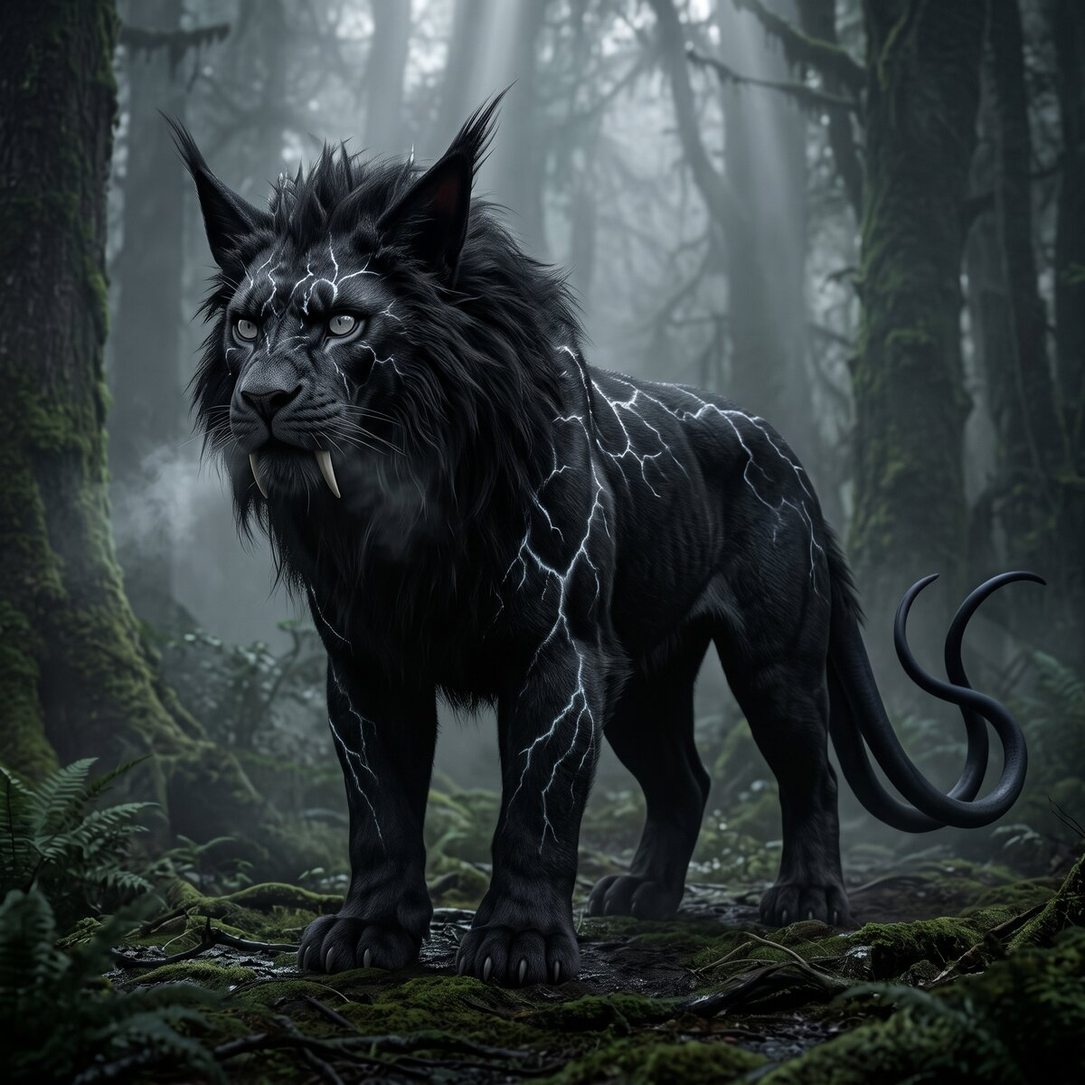
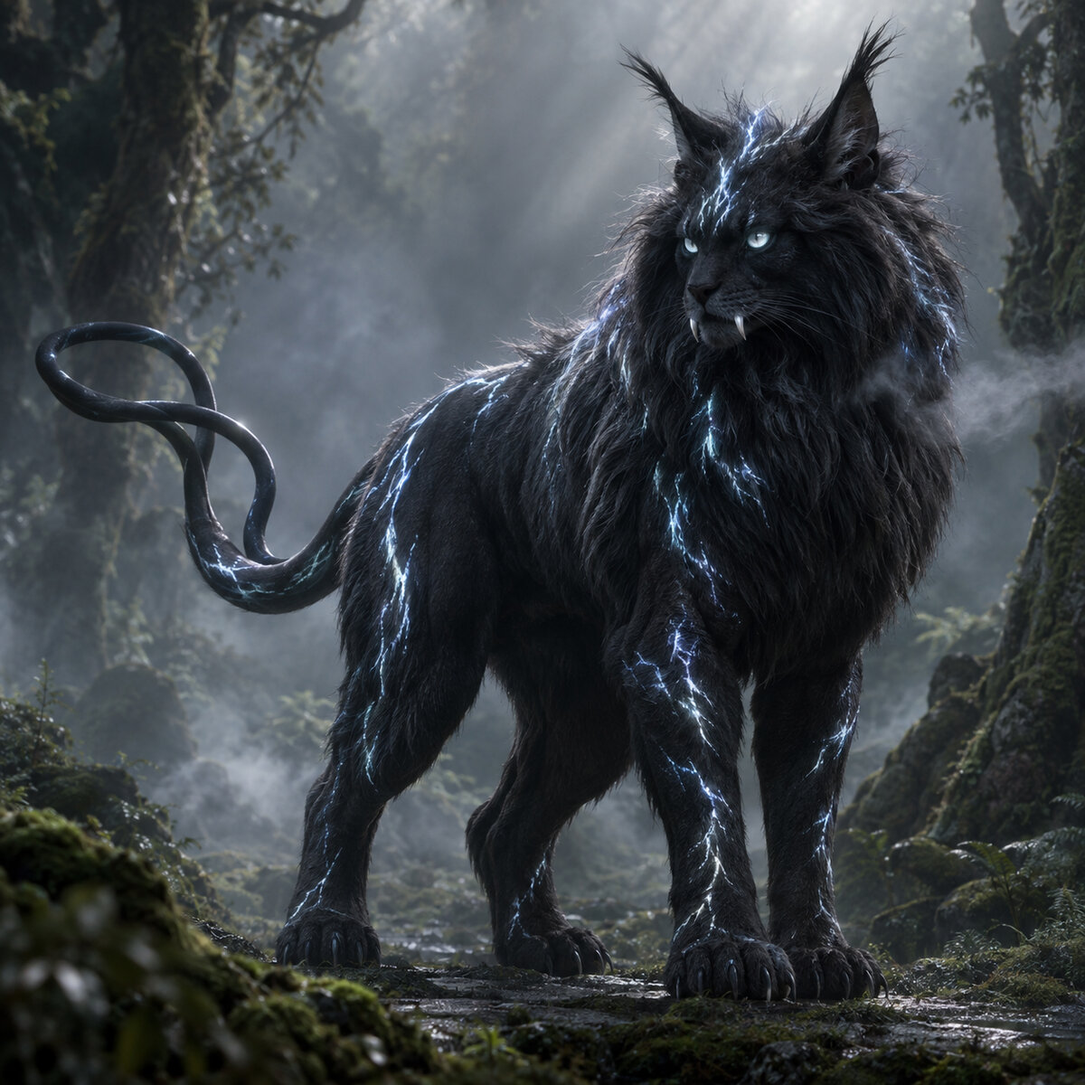
Update Korrune portrait and lore to icy-blue lightning-network design
New reference render: electric blue-white eyes and a dense branching
glow network covering nearly the whole body (chest, spine, all four
legs, and along the bare tail) instead of a single path down the
spine. Mane extended to cover the chest. Synced head/body/limbs/skin/
pattern/pal/hl fields and the image-gen prompt to match.

Portrait resized from 1254px/995KB to 1200px/~260KB to match the
site's standard creature image size.

diff --git a/creatures/korrune.js b/creatures/korrune.js
@@ -1,7 +1,7 @@
 /* ITH-205-001 — Korrune (ALIVE) */
 creaturesData.push({
         id: "ITH-205-001", name: "Korrune", nickname: "เจ้าไร้เสียง", status: "ALIVE", era: "ยุคป่าหมอก (Mistwood Era)",
-        imageKey: "KORRUNE", color: "#eef4f8",
+        imageKey: "KORRUNE", color: "#bfe6ff",
         category: "สัตว์กินเนื้อ · ผู้ล่าสูงสุดแห่งยุคป่าหมอก (Mistwood Apex Predator, ambush-stalker)",
         habitat: "เคลื่อนย้ายข้ามทุกชั้นของทวีป Verath ไม่ยึดอาณาเขตตายตัว",
         foodChain: "ยอดสุดของห่วงโซ่อาหารในยุคปัจจุบัน — ล่าได้แม้กระทั่งฝูงเจ้าตัวสี่ขาเต็มฝูง",
@@ -11,33 +11,33 @@ creaturesData.push({
         weapons: [ "เขี้ยวคมกริบขนาดกะทัดรัด (กัดจุดตายครั้งเดียวจบด้วยความแม่นยำ)", "กรงเล็บหดได้แบบแมวใหญ่", "ต่อมกลิ่นเตือนภัยที่สัตว์อื่นจดจำได้โดยสัญชาตญาณ", "ขนกันเสียงเคลื่อนไหวได้เงียบสนิท", "ขนพรางตัวปรับสีกลมกลืนสภาพแวดล้อมได้เกือบทันที (Adaptive Camouflage)" ],
         social: "ล่าเดี่ยวโดยสมบูรณ์ ครองอาณาเขตกว้างกว่า 800 ตร.กม./ตัว หลีกเลี่ยงกันเองด้วยกลิ่นทำเครื่องหมาย พบคู่ผสมพันธุ์ได้ยากมาก อายุขัยยาวนาน ~120-150 ปี",
         head: [
-            ["โครงกะโหลก", "ไม่มีแผ่นเกราะแข็งหุ้มหัวอีกต่อไป มีเพียงขนหนาดกดุร้ายปกคลุมทั่วทั้งหัว หยาบและตั้งชี้กว่าขนเรียบลื่นส่วนอื่นของร่างกายมาก", "ขนรอบกะโหลกฟูหนาเป็นพิเศษโดยเฉพาะแนวคิ้วที่พูนนูนตั้งชี้ขึ้นตามธรรมชาติเป็นกระจุกหยาบไม่เรียบเนียน ให้ใบหน้าดูขมวดโกรธและจ้องเขม็งอยู่ตลอดโดยไม่ต้องพึ่งเกราะแข็งใดๆ เงาลึกที่ทอดลงมาจากแนวคิ้วนั้นบดบังส่วนบนของดวงตาให้ดูจมลึกน่ากลัวยิ่งขึ้น ลวดลายแตกสีขาวเรืองแสงจางที่เคยอยู่ตามรอยต่อแผ่นเกราะ ตอนนี้ฝังอยู่ในเส้นขนเองแทน เริ่มจากแนวนี้บนหัวก่อนไล่ยาวลงคอ สันหลัง ไปจนถึงปลายหาง"],
-            ["ดวงตา", "ตาคู่หน้าโตกลม ม่านตาเงินเทา จมลึกอยู่ใต้เงาขนคิ้วหนาแทนกรอบเกราะ", "รูปทรงกลมโตยังคงเค้าความเป็นแมวไว้ชัดเจน แต่ตำแหน่งที่จมลึกใต้เงาขนทำให้ดูดุร้ายกว่าดวงตากลมโตทั่วไปมาก รูม่านตาขยายกว้างสุดขั้ว มองเห็นในหมอกทึบยามค่ำคืนได้ดีเยี่ยม มีชั้นสะท้อนแสง (Tapetum) ทำให้ดวงตาเรืองแสงซีดจางเหมือนผีเวลาสะท้อนแสงน้อยนิด การสบตากับมันตรงๆ แม้เพียงเสี้ยววินาทีก็เพียงพอทำให้สิ่งมีชีวิตแทบทุกชนิดค้างนิ่งไปเองโดยไม่รู้ตัว เป็นปฏิกิริยาสัญชาตญาณดิบ ไม่ใช่การสะกดจิตหรือพลังพิเศษใดๆ"],
+            ["โครงกะโหลก", "ไม่มีแผ่นเกราะแข็งหุ้มหัวอีกต่อไป มีเพียงขนหนาดกดุร้ายปกคลุมทั่วทั้งหัว หยาบและตั้งชี้กว่าขนเรียบลื่นส่วนอื่นของร่างกายมาก", "ขนรอบกะโหลกฟูหนาเป็นพิเศษโดยเฉพาะแนวคิ้วที่พูนนูนตั้งชี้ขึ้นตามธรรมชาติเป็นกระจุกหยาบไม่เรียบเนียน ให้ใบหน้าดูขมวดโกรธและจ้องเขม็งอยู่ตลอดโดยไม่ต้องพึ่งเกราะแข็งใดๆ เงาลึกที่ทอดลงมาจากแนวคิ้วนั้นบดบังส่วนบนของดวงตาให้ดูจมลึกน่ากลัวยิ่งขึ้น ลวดลายแตกสีฟ้าขาวเรืองแสงจางที่เคยอยู่ตามรอยต่อแผ่นเกราะ ตอนนี้ฝังอยู่ในเส้นขนเองแทน เริ่มจากแนวนี้บนหัวก่อนแตกแขนงหนาแน่นลงคอ อก สันหลัง และขาทั้งสี่ข้าง ไปจนถึงปลายหาง"],
+            ["ดวงตา", "ตาคู่หน้าโตกลม ม่านตาฟ้าน้ำแข็งซีดเรืองใส จมลึกอยู่ใต้เงาขนคิ้วหนาแทนกรอบเกราะ", "รูปทรงกลมโตยังคงเค้าความเป็นแมวไว้ชัดเจน แต่ตำแหน่งที่จมลึกใต้เงาขนทำให้ดูดุร้ายกว่าดวงตากลมโตทั่วไปมาก รูม่านตาขยายกว้างสุดขั้ว มองเห็นในหมอกทึบยามค่ำคืนได้ดีเยี่ยม มีชั้นสะท้อนแสง (Tapetum) ทำให้ดวงตาเรืองแสงฟ้าน้ำแข็งซีดเหมือนผีเวลาสะท้อนแสงน้อยนิด การสบตากับมันตรงๆ แม้เพียงเสี้ยววินาทีก็เพียงพอทำให้สิ่งมีชีวิตแทบทุกชนิดค้างนิ่งไปเองโดยไม่รู้ตัว เป็นปฏิกิริยาสัญชาตญาณดิบ ไม่ใช่การสะกดจิตหรือพลังพิเศษใดๆ"],
             ["จมูก", "ปลายจมูกเรียวเล็กกะทัดรัด ไวต่อกลิ่นสุดขั้ว", "ดมกลิ่นฝูงเจ้าตัวสี่ขาได้ไกลเป็นกิโลเมตรก่อนเห็นตัว เป็นเหตุผลที่ฝูงเจ้าตัวสี่ขามักหนีไปก่อนที่จะเจอหน้ากันจริงๆ"],
             ["ปาก", "ปากและขากรรไกรกะทัดรัดสมส่วนกับหัว แต่เขี้ยวคู่หน้ายังคงยาวโค้งคมกริบยื่นพ้นริมฝีปากให้เห็นเป็นประกายขาวตัดกับขนดำอยู่เสมอ", "แม้ขนาดปากโดยรวมจะกะทัดรัด ไม่ใหญ่โตแบบเซเบอร์ทูธดั้งเดิม แต่เขี้ยวคู่หน้ายังคงยาวพอจะยื่นพ้นริมฝีปากออกมาให้เห็นชัดตลอดเวลา ใช้กัดจุดตายได้ในครั้งเดียวด้วยความแม่นยำและแรงกัดมหาศาล ฟันกรามด้านในบางแต่คมสำหรับตัดเนื้อหลังเหยื่อหยุดนิ่งแล้ว"],
             ["หู", "หูใหญ่ตั้งชันโดดเด่นแทรกอยู่ในกระจุกขนหัวที่ยุ่งเหยิง ปลายหูแต่ละข้างมีกระจุกขนแหลมยาวยื่นออกไป", "หมุนได้อิสระ ตั้งชันเด่นชัดเหนือแนวขนหัวที่ยุ่งเหยิงรอบข้างเป็นท่าปกติ กระจุกขนที่ปลายหูยาวยื่นออกไปเป็นเส้นแหลมคล้ายขนพู่ของแมวป่าแต่ยาวกว่ามาก เสริมเงาของหัวให้ดูใหญ่และดุดันยิ่งขึ้น พับแนบราบได้เฉพาะจังหวะย่องเข้าใกล้เหยื่อสุดขีดเพื่อลดพื้นที่หน้าตัดและเงาที่เหยื่ออาจสังเกตเห็นเท่านั้น"],
             ["EXTRA #1", "ต่อมกลิ่นเตือนภัยข้างขากรรไกร", "ปล่อยกลิ่นเฉพาะตัวที่สัตว์แทบทุกชนิดในป่าหมอกจดจำและหวาดกลัวได้โดยสัญชาตญาณโดยไม่ต้องเคยเจอตัวมันมาก่อน — เป็นกลไกที่ทำให้ฝูงเจ้าตัวสี่ขาทั้งฝูงหนีได้โดยไม่ต้องเห็นตัว"],
-            ["EXTRA #2", "ลวดลายแตกสีขาวเรืองแสงวิ่งตามริ้วขนจากหัวจรดปลายหาง แผ่ลงไปตามขาหน้าทั้งสองข้างด้วย (Frost-Crack Markings)", "ไม่ใช่รอยแตกบนผิวหนังหรือแผ่นเกราะ แต่เป็นลวดลายสีขาวที่ฝังอยู่ในเส้นขนเองตั้งแต่โคนจรดปลาย วิ่งเป็นเส้นแตกแขนงคล้ายรอยฟ้าผ่าหรือรอยแตกน้ำแข็งไล่ตามแนวขนยาวบนหัว ลงคอ สันหลัง แตกแขนงลงไปตามขาหน้าทั้งสองข้างอย่างเด่นชัด ไปจนถึงปลายหาง ต่อเนื่องเป็นเส้นทางเดียวไม่ขาดตอน ปกติเรืองแสงจางแทบมองไม่เห็น แต่จะสว่างวาบขึ้นทั่วทั้งเส้นทางเป็นเสี้ยววินาทีก่อนพุ่งกระโจนโจมตี — เหยื่อที่สังเกตทันจะเห็นแค่เส้นแสงจางวาบขึ้นในความมืดก่อนถูกงับ"]
+            ["EXTRA #2", "ลวดลายแตกสีฟ้าขาวเรืองแสงหนาแน่นคลุมเกือบทั้งตัวตั้งแต่หัวจรดปลายหาง แผ่กระจายลงไปตามขาทั้งสี่ข้าง (Frost-Crack Markings)", "ไม่ใช่รอยแตกบนผิวหนังหรือแผ่นเกราะ แต่เป็นลวดลายสีฟ้าขาวที่ฝังอยู่ในเส้นขนเองตั้งแต่โคนจรดปลาย แตกแขนงเป็นร่างแหหนาแน่นคล้ายสายฟ้าหรือรอยแตกน้ำแข็งปกคลุมพื้นที่กว้างกว่าที่เคยเป็นมาก ไล่จากหัว ลงคอ อก สันหลัง แผ่ลงไปตามขาทั้งสี่ข้างอย่างเด่นชัด ไปจนถึงปลายหาง ต่อเนื่องเป็นเครือข่ายเดียวกันไม่ขาดตอน ปกติเรืองแสงจางแทบมองไม่เห็น แต่จะสว่างวาบขึ้นทั่วทั้งร่างเป็นเสี้ยววินาทีก่อนพุ่งกระโจนโจมตี — เหยื่อที่สังเกตทันจะเห็นแค่แสงจางวาบขึ้นทั่วทั้งตัวในความมืดก่อนถูกงับ"]
         ],
         body: [
             ["BODY FRAME", "โครงร่างกำยำล่ำสันน่าเกรงขาม", "กล้ามเนื้อหนาแน่นทั่วตัวโดยเฉพาะช่วงอกและไหล่ ให้ความรู้สึกถึงพลังบดขยี้มหาศาลที่พร้อมใช้ได้ทุกเมื่อ ไม่ใช่แค่รูปร่างเพรียวสำหรับหลบหลีกอย่างเดียวอีกต่อไป แต่ยังคงความยืดหยุ่นของนักล่าซุ่มไว้ครบทุกกระเบียดนิ้ว"],
             ["SPINE", "กระดูกสันหลังยืดหยุ่นสูงมาก", "โค้งงอได้มากกว่าสัตว์ล่าเนื้อทั่วไปแม้จะแบกกล้ามเนื้อมหาศาล ช่วยให้หมอบตัวแนบพื้นได้แทบราบและกระโจนจากที่สูงหรือพื้นราบได้ระยะไกลผิดปกติ"],
-            ["แผงคอ", "ขนหนาฟูใหญ่รอบคอและไหล่คล้ายแผงคอสิงโต หยาบกระด้างและตั้งชี้ยุ่งเหยิงกว่าขนเรียบส่วนอื่น", "ขนบริเวณคอและไหล่งอกยาวหนาฟูกว่าขนส่วนอื่นทั่วตัวมาก สยายออกเป็นวงกว้างรอบใบหน้าและลำคอราวกับแผงคอสิงโต แต่ไม่เรียบลื่นเป็นระเบียบ กลับตั้งชี้ยุ่งเหยิงไปคนละทิศคนละทางเหมือนสิงโตดุร้ายที่เพิ่งผ่านการต่อสู้ เพิ่มขนาดและมวลของหัวให้ดูใหญ่โตน่าเกรงขามยิ่งกว่าความเป็นจริงตั้งแต่ระยะไกล ลวดลายแตกสีขาวเรืองแสงจากใบหน้าไล่ผ่านแผงคอนี้ก่อนต่อเนื่องลงสันหลังตามปกติ เป็นมวลขนที่งอกยาวตามธรรมชาติ ไม่มีกลไกตั้งชันแยกจากขนส่วนอื่น"],
-            ["TAIL", "หางเปลือยผิวสีดำเป็นส่วนใหญ่ มีขนปกคลุมเฉพาะโคนหางใกล้สะโพกเท่านั้น แยกเป็นสองแขนงคล้ายหนวดที่ม้วนขดอิสระจากกันตลอดความยาว เห็นรอยแยกชัดเจนตลอดเวลา", "Utility — มีขนหนาสีดำสนิทปกคลุมเฉพาะช่วงโคนหางใกล้สะโพก ก่อนจะเปลี่ยนเป็นผิวเปลือยเปล่าสีดำเข้มตลอดความยาวที่เหลือ แยกออกเป็นสองแขนงเรียวที่ขยับได้อิสระจากกัน ม้วนขดเป็นเกลียวคล้ายงูสองตัวพันกันมากกว่าหางสัตว์ทั่วไป ใช้ถ่วงสมดุลขณะกระโจนโจมตีหรือเปลี่ยนทิศกลางอากาศกะทันหัน ทั้งสองแขนงแนบชิดกันและแทบไม่ขยับเวลาซุ่มเพื่อไม่ให้เผยตำแหน่ง แต่จะสะบัดแยกออกจากกันเต็มที่ในจังหวะสุดท้ายก่อนตะปบเพื่อรบกวนการกะระยะของเหยื่อ"]
+            ["แผงคอ", "ขนหนาฟูใหญ่รอบคอ อก และไหล่คล้ายแผงคอสิงโต หยาบกระด้างและตั้งชี้ยุ่งเหยิงกว่าขนเรียบส่วนอื่น", "ขนบริเวณคอ อก และไหล่งอกยาวหนาฟูกว่าขนส่วนอื่นทั่วตัวมาก สยายออกเป็นวงกว้างรอบใบหน้าและลำคอลงมาถึงหน้าอกราวกับแผงคอสิงโต แต่ไม่เรียบลื่นเป็นระเบียบ กลับตั้งชี้ยุ่งเหยิงไปคนละทิศคนละทางเหมือนสิงโตดุร้ายที่เพิ่งผ่านการต่อสู้ เพิ่มขนาดและมวลของหัวและช่วงบนให้ดูใหญ่โตน่าเกรงขามยิ่งกว่าความเป็นจริงตั้งแต่ระยะไกล ลวดลายแตกสีฟ้าขาวเรืองแสงจากใบหน้าไล่ผ่านแผงคอนี้อย่างหนาแน่นก่อนต่อเนื่องลงสันหลังตามปกติ เป็นมวลขนที่งอกยาวตามธรรมชาติ ไม่มีกลไกตั้งชันแยกจากขนส่วนอื่น"],
+            ["TAIL", "หางเปลือยผิวสีดำเกือบตลอดทั้งเส้น มีขนปกคลุมแค่โคนหางสั้นๆ ใกล้สะโพก แยกเป็นสองแขนงคล้ายหนวดที่ม้วนขดอิสระจากกันตลอดความยาว เห็นรอยแยกชัดเจนตลอดเวลา", "Utility — มีขนหนาสีดำสนิทปกคลุมแค่ช่วงโคนหางสั้นๆ ใกล้สะโพก ก่อนจะเปลี่ยนเป็นผิวเปลือยเปล่าสีดำเข้มตลอดความยาวที่เหลือแทบทั้งหมด ลวดลายแตกสีฟ้าขาวเรืองแสงยังคงลากยาวต่อเนื่องไปตามผิวเปลือยนั้นด้วย ไม่ได้หยุดแค่โคนขน แยกออกเป็นสองแขนงเรียวที่ขยับได้อิสระจากกัน ม้วนขดเป็นเกลียวคล้ายงูสองตัวพันกันมากกว่าหางสัตว์ทั่วไป ใช้ถ่วงสมดุลขณะกระโจนโจมตีหรือเปลี่ยนทิศกลางอากาศกะทันหัน ทั้งสองแขนงแนบชิดกันและแทบไม่ขยับเวลาซุ่มเพื่อไม่ให้เผยตำแหน่ง แต่จะสะบัดแยกออกจากกันเต็มที่ในจังหวะสุดท้ายก่อนตะปบเพื่อรบกวนการกะระยะของเหยื่อ"]
         ],
         limbs: [
-            ["#1", "ขา", "ขาหน้า", "ล่ำแข็งแรง อุ้งเท้าใหญ่แผ่กระจายน้ำหนักบนโคลนอ่อนไม่ให้จม กรงเล็บหดเก็บได้สนิทเวลาย่องเพื่อไม่ให้เกิดเสียง กางออกเต็มที่เฉพาะจังหวะตะปบสุดท้าย"],
-            ["#2", "ขา", "ขาหลัง", "กล้ามเนื้อสะโพกมหาศาล ให้แรงระเบิดกระโจนจากจุดหยุดนิ่งสนิทไปสู่ความเร็วเต็มที่ได้ในเสี้ยววินาที — ท่าล่าหลักของมันคือรอไม่ไล่"]
+            ["#1", "ขา", "ขาหน้า", "ล่ำแข็งแรง อุ้งเท้าใหญ่แผ่กระจายน้ำหนักบนโคลนอ่อนไม่ให้จม กรงเล็บหดเก็บได้สนิทเวลาย่องเพื่อไม่ให้เกิดเสียง กางออกเต็มที่เฉพาะจังหวะตะปบสุดท้าย ลวดลายแตกสีฟ้าขาวเรืองแสงแผ่ลงมาตามแนวขาอย่างหนาแน่นจนถึงข้อเท้า"],
+            ["#2", "ขา", "ขาหลัง", "กล้ามเนื้อสะโพกมหาศาล ให้แรงระเบิดกระโจนจากจุดหยุดนิ่งสนิทไปสู่ความเร็วเต็มที่ได้ในเสี้ยววินาที — ท่าล่าหลักของมันคือรอไม่ไล่ ลวดลายแตกสีฟ้าขาวเรืองแสงแผ่ลงมาตามแนวขาหลังเช่นเดียวกับขาหน้า"]
         ],
         skin: [
-            ["ลำตัว/ขา", "ขนสั้นถึงปานกลางแนบเรียบคลุมทั่วลำตัวและขา ต่างจากกระจุกขนยาวยุ่งเหยิงที่หัวและแผงคออย่างชัดเจน สีพื้นดำสนิท ดูดกลืนแสงสูง แทบไม่สะท้อนแสงเลย ซ่อนลวดลายสีสดใสไว้ใต้ชั้นขน — เซลล์เม็ดสีพิเศษที่โคนขนแต่ละเส้นหดหรือคลายตัวปรับโทนสีที่ขนแสดงออกมาให้กลมกลืนกับสภาพแวดล้อมรอบตัวได้เกือบจะในทันที ไม่ว่าจะเป็นเงาไม้ เปลือกไม้ผุ หรือพื้นโคลนเปียก ระหว่างที่ปรับสีอยู่จะเห็นประกายเล็กๆ ระยิบระยับวับแวมอยู่ตามริ้วขนราวกับหิมะสะท้อนแสงจันทร์ เป็นสัญญาณเดียวที่บอกว่ากำลังพรางตัวอยู่ ทำให้กลืนไปกับเงาและหมอกทึบจนแยกไม่ออกจากความมืดรอบตัวจนกว่าจะขยับ"],
+            ["ลำตัว/ขา", "ขนปานกลางหนาแน่นคลุมทั่วลำตัวและขาทั้งสี่ข้าง สั้นและเรียบกว่ากระจุกขนยาวยุ่งเหยิงที่หัวและแผงคออย่างชัดเจน แต่ยังคงหนาพอให้ลวดลายเรืองแสงฝังตัวอยู่ได้ทั่วถึง สีพื้นดำสนิท ดูดกลืนแสงสูง แทบไม่สะท้อนแสงเลย ซ่อนลวดลายสีสดใสไว้ใต้ชั้นขน — เซลล์เม็ดสีพิเศษที่โคนขนแต่ละเส้นหดหรือคลายตัวปรับโทนสีที่ขนแสดงออกมาให้กลมกลืนกับสภาพแวดล้อมรอบตัวได้เกือบจะในทันที ไม่ว่าจะเป็นเงาไม้ เปลือกไม้ผุ หรือพื้นโคลนเปียก ระหว่างที่ปรับสีอยู่จะเห็นประกายเล็กๆ ระยิบระยับวับแวมอยู่ตามริ้วขนราวกับหิมะสะท้อนแสงจันทร์ เป็นสัญญาณเดียวที่บอกว่ากำลังพรางตัวอยู่ ทำให้กลืนไปกับเงาและหมอกทึบจนแยกไม่ออกจากความมืดรอบตัวจนกว่าจะขยับ"],
             ["ใบหน้า/ต่อมกลิ่น", "หนังเปลือยสีดำเข้มเล็กๆ เฉพาะจุดรอบต่อมกลิ่นข้างขากรรไกร ไม่มีขนบังเพื่อไม่ให้กลิ่นเตือนภัยที่ปล่อยออกมาติดค้างในขนตัวเอง นอกนั้นทั้งใบหน้าปกคลุมด้วยขนหนาเหมือนส่วนอื่นของหัว"],
             ["อุ้งเท้า", "แผ่นรองเท้าหนานุ่มพิเศษ ดูดซับแรงกระแทกและเสียงฝีเท้าได้เกือบสมบูรณ์แม้ตอนลงน้ำหนักเต็มตัว กรงเล็บสีดำที่โผล่พ้นอุ้งเท้าออกมาเมื่อจำเป็นมีขนาดใหญ่โค้งเกินสัดส่วนปกติ ยาวพอจะขุดควักซากได้ลึกในครั้งเดียว"]
         ],
-        pattern: "ขนสั้นถึงปานกลางแนบเรียบคลุมลำตัวและขา ตัดกับกระจุกขนยาวยุ่งเหยิงที่หัวและแผงคออย่างชัดเจน สีพื้นดำสนิทซ่อนลวดลายสีสดใสสวยงามไว้ใต้ชั้นขน เผยออกมาชัดเจนก็ต่อเมื่อพักผ่อนอยู่ในที่ปลอดภัยห่างไกลสายตาเท่านั้น เพราะเซลล์เม็ดสีพิเศษที่โคนขนแต่ละเส้นปรับโทนสีที่แสดงออกมาให้กลมกลืนกับสภาพแวดล้อมรอบตัวได้เกือบจะในทันที ระหว่างพรางตัวจะเห็นประกายระยิบเล็กๆ วับแวมอยู่ตามริ้วขนราวกับหิมะสะท้อนแสงจันทร์ ทำให้ร่างกำยำกว่าสองตันแทบล่องหนไปจนกว่าจะขยับ ซ้อนทับด้วยลวดลายแตกสีขาวเรืองแสงจางอีกชั้นหนึ่งที่ฝังอยู่ในเส้นขนเองไม่ใช่บนผิวหนัง วิ่งเป็นเส้นแตกแขนงคล้ายรอยฟ้าผ่าหรือรอยแตกน้ำแข็งไล่ตามแนวขนตั้งแต่หัว ลงคอ สันหลัง แตกแขนงลงไปตามขาหน้าทั้งสองข้าง ไปจนถึงปลายหาง ปกติเรืองแสงจางแทบมองไม่เห็น แต่จะสว่างวาบขึ้นทั่วทั้งเส้นทางเป็นเสี้ยววินาทีก่อนพุ่งกระโจนโจมตี นี่คือเหตุผลที่มันถูกเรียกกันว่า \"ผีแห่งป่าหมอก\"",
+        pattern: "ขนปานกลางหนาแน่นคลุมลำตัวและขาทั้งสี่ข้าง สั้นและเรียบกว่ากระจุกขนยาวยุ่งเหยิงที่หัวและแผงคออย่างชัดเจน สีพื้นดำสนิทซ่อนลวดลายสีสดใสสวยงามไว้ใต้ชั้นขน เผยออกมาชัดเจนก็ต่อเมื่อพักผ่อนอยู่ในที่ปลอดภัยห่างไกลสายตาเท่านั้น เพราะเซลล์เม็ดสีพิเศษที่โคนขนแต่ละเส้นปรับโทนสีที่แสดงออกมาให้กลมกลืนกับสภาพแวดล้อมรอบตัวได้เกือบจะในทันที ระหว่างพรางตัวจะเห็นประกายระยิบเล็กๆ วับแวมอยู่ตามริ้วขนราวกับหิมะสะท้อนแสงจันทร์ ทำให้ร่างกำยำกว่าสองตันแทบล่องหนไปจนกว่าจะขยับ ซ้อนทับด้วยลวดลายแตกสีฟ้าขาวเรืองแสงจางอีกชั้นหนึ่งที่ฝังอยู่ในเส้นขนเองไม่ใช่บนผิวหนัง แตกแขนงเป็นร่างแหหนาแน่นคล้ายสายฟ้าหรือรอยแตกน้ำแข็งปกคลุมพื้นที่กว้างเกือบทั่วตัว ไล่ตามแนวขนตั้งแต่หัว ลงคอ อก สันหลัง แผ่ลงไปตามขาทั้งสี่ข้าง ไปจนถึงปลายหางที่ลวดลายยังคงลากยาวต่อเนื่องไปตามผิวเปลือยด้วย ปกติเรืองแสงจางแทบมองไม่เห็น แต่จะสว่างวาบขึ้นทั่วทั้งร่างเป็นเสี้ยววินาทีก่อนพุ่งกระโจนโจมตี นี่คือเหตุผลที่มันถูกเรียกกันว่า \"ผีแห่งป่าหมอก\"",
         pal: [["สีหลัก", "#0b0b0e"], ["เงา", "#000000"], ["แสง", "#3a3a42"], ["เสริม A (ลายซ่อน)", "#0e8f7a"], ["เสริม B (ลายซ่อน)", "#7c2ee0"]],
-        hl: ["#eef4f8", "ขาวอมฟ้าซีดเหมือนแสงผี"],
-        hlAt: "ดวงตาคู่ที่เรืองแสงซีดลอยอยู่ในความมืดก่อนเห็นตัวจริง · ไอลมหายใจในอากาศเย็นของหมอก · ขอบเขี้ยวคมกริบเป็นมันวาว · ลวดลายแตกสีขาวเรืองแสงที่ฝังในริ้วขนวิ่งจากหัวจรดปลายหาง · ประกายระยิบเล็กๆ ในริ้วขนที่ปรากฏขึ้นเมื่อพรางตัว · ปลายหางแยกแฉกคล้ายหนวดที่สะบัดในจังหวะสุดท้าย",
+        hl: ["#bfe6ff", "ฟ้าน้ำแข็งเรืองแสงเหมือนแสงผี"],
+        hlAt: "ดวงตาคู่สีฟ้าน้ำแข็งที่เรืองแสงลอยอยู่ในความมืดก่อนเห็นตัวจริง · ไอลมหายใจในอากาศเย็นของหมอก · ขอบเขี้ยวคมกริบเป็นมันวาว · ร่างแหลวดลายแตกสีฟ้าขาวเรืองแสงที่ฝังในริ้วขนคลุมเกือบทั้งตัวตั้งแต่หัวจรดปลายหาง · ประกายระยิบเล็กๆ ในริ้วขนที่ปรากฏขึ้นเมื่อพรางตัว · ปลายหางแยกแฉกคล้ายหนวดที่สะบัดในจังหวะสุดท้าย",
         mutationFull: {
             proTitle: "ต่อมกลิ่น + ขนกันเสียง + ขนพรางตัวปรับสี / การล่าแบบซุ่มเงียบและล่องหนสมบูรณ์แบบ",
             proDesc: "ต่อมกลิ่นเตือนภัยที่สัตว์อื่นจดจำได้โดยสัญชาตญาณ บวกกับขนกันเสียงที่ทำให้เคลื่อนไหวเงียบสนิทแม้มีมวลกายมหาศาล และขนที่ปรับสีกลมกลืนกับสภาพแวดล้อมได้เกือบจะในทันที รวมสามชั้นการซ่อนตัวนี้ทำให้มันครองตำแหน่งนักล่าที่ไม่มีใครในป่าหมอกกล้าท้าทาย แทบไม่ต้องต่อสู้เลยเพราะเหยื่อและคู่แข่งไม่มีทางรู้ตัวก่อนจะสายเกินไป",
@@ -81,5 +81,5 @@ creaturesData.push({
             ["", "<strong>สายเลือดผู้รอดชีวิต</strong> เชื่อกันว่าเจ้าไร้เสียงสืบเชื้อสายมาจากกลุ่มสัตว์มีขนหนาชนิดเดียวกับที่รอดพ้นฤดูหนาวใหญ่ในยุคหมุนเวียน สายเลือดเดียวกับ <em style='color:var(--accent-default)'>เจ้าขนน้ำแข็ง</em> แห่งทวีป Kessara แต่วิวัฒนาการไปคนละทิศทางเมื่อกลับมาสู่ป่าที่อบอุ่นชื้นแฉะ"],
             ["", "ลักษณะที่ตั้งใจไว้เบื้องต้น: หายากมาก ล่าเดี่ยว ครองอาณาเขตกว้าง มีกลิ่นเตือนภัยที่สัตว์อื่นจดจำได้โดยสัญชาตญาณ ออกแบบระบบ Slot เต็มรูปแบบแล้ว"]
         ],
-        prompt: "An extremely alien apex predator standing 2.4 meters at the shoulder, its overall silhouette echoing a massive big cat but its details reading as unmistakably otherworldly, its frame thick and powerfully muscled rather than lean, standing tall with its full weight planted rather than crouched mid-stalk — a predator that has never once needed to flinch, retreat, or posture, simply owning the ground it stands on. Its entire head is covered in thick black fur, coarser and more untamed than the sleek fur on the rest of its body, with no hard plating or armor of any kind; the fur around its brow grows especially dense and bristles up into ragged, jutting tufts rather than lying smooth, casting a deep, heavy shadow that gives its face a fixed, feral, glowering scowl even in complete stillness without any exoskeletal help. Its head bears a pair of large round eyes — still unmistakably cat-like in shape — set deep beneath that shadowing brow fur so they read as sunken and menacing rather than simply large, with pale silver-grey irises and hugely dilated pupils, backed by a reflective tapetum that makes them glow faintly like ghost-lights in near-total darkness; its gaze is fixed intently on something unseen further into the mist, unblinking, and the instant that stare lands on something, that alone is enough to make it freeze in place without a single sound or movement required. Its snout is compact and refined rather than broad or blocky, extraordinarily sensitive to scent and able to detect a rival pack's trail from over a kilometer away long before any visual contact, and its jaw, though compact in overall size, holds a pair of long, curved canine fangs that jut visibly past its closed lips at all times, gleaming white against its black fur, built for a single precise killing bite delivered through both fang and immense bite force, backed by thin sharp molars for cutting once prey has gone still. Its large ears stand alert and upright, prominent and pointed, half-lost amid the wild, jutting fur of its head, each ear tip trailing a long, spiky tuft of fur backward like an exaggerated lynx ear-tuft, rotating independently and folding flat only in the final moments of an extreme close stalk. A scent gland beside its jaw constantly releases a distinct warning musk that nearly every animal in the mistwood instinctively recognizes and fears without ever having encountered the creature itself. Woven directly into the long fur itself, never on bare skin, a network of pale white-blue markings runs like branching lightning-bolts or cracks in ice along the grain of its fur, starting at its brow and flowing down its neck and spine, branching visibly down both forelegs, in one unbroken path all the way to the tip of its tail; normally faint and barely visible, this fur-borne pattern flares into a bright ghostly glow along its entire length in a split second right before it strikes. Its body is a heavily muscled frame with a deep chest and thick, powerful shoulders that radiate raw physical dominance, built on an extraordinarily flexible spine capable of flattening almost to the ground when stalking despite its bulk, though held tall and level now. A thick, voluminous mane of fur grows around its neck and shoulders, far longer and denser than the fur covering the rest of its body, coarse and wild rather than neatly groomed, jutting out in every direction like a lion mid-brawl rather than lying in tidy locks, framing its head dramatically and adding visual mass that makes its head and shoulders read as even larger and more imposing from a distance; the same glowing white lightning-crack pattern runs directly through this mane as it flows from the face down onto the spine. Its tail is furred only at its base near the hips, in the same fur as its body, the glowing white pattern reaching just that far before the fur stops abruptly; for the rest of its considerable length the tail is completely bare, smooth deep-black skin rather than pink or fleshy-toned, splitting into two distinct, slender, independently mobile branches that coil and spiral around one another like a pair of serpents rather than hanging in a single tapered tip, each bare branch reading as a smooth black tentacle rather than fur-tipped hair, in constant slow restless motion rather than hanging still. It has two pairs of legs: powerful forelegs, thick with muscle, with broad paws that spread its weight across soft mud without sinking, retractable claws kept fully sheathed yet ready to bare instantly, and immensely muscled hind legs that store the explosive force needed to go from complete stillness to full speed in a fraction of a second. Its body and legs are covered in short-to-medium, sleek fur lying close and flat, a sharp contrast to the wild, jutting fur of its head and the voluminous mane at its neck and shoulders, solid deep black at rest and reflecting almost no light, letting it dissolve into shadow and thick fog until the instant it moves; hidden beneath that black coat, specialized pigment cells at the root of every strand can flex to flood the fur with vivid, brilliantly saturated color and shift its visible hue to match the mottled bark, wet mud, or deep shadow around it within moments, so its true colors are almost never seen — while this camouflage shift is active, faint tiny points of light glimmer and sparkle across the shifting fur like frost catching moonlight, the only visible sign that it is changing color at all. Its paw pads are thick and soft on the underside for silence, with unusually large, sharply curved black claws capable of gouging deep even through a carcass in a single motion. Its scent gland, silencing fur, and adaptive camouflage let it stalk so completely undetected that it rarely needs to fight at all, at the cost of demanding an enormous solitary territory and breeding so rarely that its entire population remains critically small at all times. Its coloration at rest is a harmonious near-black palette, deepened by true black shadows in the recesses and lifted only by the faintest dark ash-grey sheen along its flanks where its long fur catches what little light there is, with vivid emerald-teal and violet-magenta hidden just beneath the surface of its coat, ready to bloom across its shoulders and flanks the instant it lowers its guard, and a glowing pale white-blue highlight reserved only for its ghostly eyes, the mist of its breath in the cold air, the polished edge of its fangs, the branching lightning-crack pattern woven through its fur from brow to tail-tip, and the tiny sparkling glints scattered across its coat while camouflaged. It stands utterly motionless in the deep mist between towering moss-covered trees of the Verath mistwood, its head turned slightly away from the camera toward something unseen deeper in the fog, its ears upright with their long spiky tufts visible, its thick lion-like mane framing its head and shoulders, the glowing white pattern faintly traced through the mane down its neck, spine, and forelegs, its fangs gleaming faintly where they jut past its lips, its glowing eyes the single most commanding point of light in the frame, the twin bare black branches of its tail coiled together and trailing behind it, as it holds its ground without a single sound.\n\nPhotorealistic 3D creature render, cinematic film-VFX quality, standing full-body in its natural habitat environment, three-quarter view, shot with a telephoto lens at eye level, shallow depth of field with softly blurred background fog and foliage, volumetric god rays filtering through mist from above, soft naturalistic backlighting that makes its ghostly eyes, glowing fur markings, and breath-mist glow from within, hyper-detailed micro-texturing on every hair and surface, subsurface scattering, physically-based rendering, muted natural color grading with deep shadows, 1:1 square composition, subject centered and fully visible from head to feet, no readable text."
+        prompt: "An extremely alien apex predator standing 2.4 meters at the shoulder, its overall silhouette echoing a massive big cat but its details reading as unmistakably otherworldly, its frame thick and powerfully muscled rather than lean, standing tall with its full weight planted rather than crouched mid-stalk — a predator that has never once needed to flinch, retreat, or posture, simply owning the ground it stands on. Its entire head is covered in thick black fur, coarser and more untamed than the sleek fur on the rest of its body, with no hard plating or armor of any kind; the fur around its brow grows especially dense and bristles up into ragged, jutting tufts rather than lying smooth, casting a deep, heavy shadow that gives its face a fixed, feral, glowering scowl even in complete stillness without any exoskeletal help. Its head bears a pair of large round eyes — still unmistakably cat-like in shape — set deep beneath that shadowing brow fur so they read as sunken and menacing rather than simply large, with pale icy blue-white irises and hugely dilated pupils, backed by a reflective tapetum that makes them glow with a cold electric blue-white light like ghost-lights in near-total darkness; its gaze is fixed intently on something unseen further into the mist, unblinking, and the instant that stare lands on something, that alone is enough to make it freeze in place without a single sound or movement required. Its snout is compact and refined rather than broad or blocky, extraordinarily sensitive to scent and able to detect a rival pack's trail from over a kilometer away long before any visual contact, and its jaw, though compact in overall size, holds a pair of long, curved canine fangs that jut visibly past its closed lips at all times, gleaming white against its black fur, built for a single precise killing bite delivered through both fang and immense bite force, backed by thin sharp molars for cutting once prey has gone still. Its large ears stand alert and upright, prominent and pointed, half-lost amid the wild, jutting fur of its head, each ear tip trailing a long, spiky tuft of fur backward like an exaggerated lynx ear-tuft, rotating independently and folding flat only in the final moments of an extreme close stalk. A scent gland beside its jaw constantly releases a distinct warning musk that nearly every animal in the mistwood instinctively recognizes and fears without ever having encountered the creature itself. Woven directly into the fur itself, never on bare skin, a dense network of electric blue-white markings branches like lightning-bolts or cracks in ice across nearly its entire body, starting at its brow and spreading down its neck, chest, spine, and flanks in a thick web of branching veins rather than a single line, continuing down all four legs to its paws and along its tail; normally faint and barely visible, this fur-borne pattern flares into a bright ghostly glow across its whole body in a split second right before it strikes. Its body is a heavily muscled frame with a deep chest and thick, powerful shoulders that radiate raw physical dominance, built on an extraordinarily flexible spine capable of flattening almost to the ground when stalking despite its bulk, though held tall and level now. A thick, voluminous mane of fur grows around its neck, chest, and shoulders, far longer and denser than the fur covering the rest of its body, coarse and wild rather than neatly groomed, jutting out in every direction like a lion mid-brawl rather than lying in tidy locks, framing its head dramatically and adding visual mass that makes its head and upper body read as even larger and more imposing from a distance; the same glowing blue-white lightning-crack pattern runs densely through this mane as it flows from the face down onto the chest and spine. Its tail is furred only for a short stretch at its base near the hips, in the same fur as its body; for the rest of its considerable length the tail is completely bare, smooth deep-black skin rather than pink or fleshy-toned, the glowing blue-white pattern continuing to trace along this bare skin rather than stopping where the fur ends, splitting into two distinct, slender, independently mobile branches that coil and spiral around one another like a pair of serpents rather than hanging in a single tapered tip, each bare branch reading as a smooth black tentacle rather than fur-tipped hair, in constant slow restless motion rather than hanging still. It has two pairs of legs: powerful forelegs, thick with muscle, with broad paws that spread its weight across soft mud without sinking, retractable claws kept fully sheathed yet ready to bare instantly, and immensely muscled hind legs that store the explosive force needed to go from complete stillness to full speed in a fraction of a second. Its body and legs are covered in medium-length, dense fur lying flatter and tidier than the wild, jutting fur of its head and the voluminous mane at its neck and shoulders, but still thick enough to carry the glowing vein pattern clearly across its whole body, solid deep black at rest and reflecting almost no light, letting it dissolve into shadow and thick fog until the instant it moves; hidden beneath that black coat, specialized pigment cells at the root of every strand can flex to flood the fur with vivid, brilliantly saturated color and shift its visible hue to match the mottled bark, wet mud, or deep shadow around it within moments, so its true colors are almost never seen — while this camouflage shift is active, faint tiny points of light glimmer and sparkle across the shifting fur like frost catching moonlight, the only visible sign that it is changing color at all. Its paw pads are thick and soft on the underside for silence, with unusually large, sharply curved black claws capable of gouging deep even through a carcass in a single motion. Its scent gland, silencing fur, and adaptive camouflage let it stalk so completely undetected that it rarely needs to fight at all, at the cost of demanding an enormous solitary territory and breeding so rarely that its entire population remains critically small at all times. Its coloration at rest is a harmonious near-black palette, deepened by true black shadows in the recesses and lifted only by the faintest dark ash-grey sheen along its flanks where its long fur catches what little light there is, with vivid emerald-teal and violet-magenta hidden just beneath the surface of its coat, ready to bloom across its shoulders and flanks the instant it lowers its guard, and a glowing electric blue-white highlight reserved only for its ghostly eyes, the mist of its breath in the cold air, the polished edge of its fangs, the dense branching lightning-crack network woven through its fur across nearly its entire body from brow to tail-tip and down all four legs, and the tiny sparkling glints scattered across its coat while camouflaged. It stands utterly motionless in the deep mist between towering moss-covered trees of the Verath mistwood, its head turned slightly away from the camera toward something unseen deeper in the fog, its ears upright with their long spiky tufts visible, its thick lion-like mane framing its head, chest, and shoulders, the glowing blue-white lightning network faintly traced through the mane and down its neck, chest, spine, and all four legs, its fangs gleaming faintly where they jut past its lips, its glowing icy-blue eyes the single most commanding point of light in the frame, the twin bare black branches of its tail coiled together and trailing behind it, as it holds its ground without a single sound.\n\nPhotorealistic 3D creature render, cinematic film-VFX quality, standing full-body in its natural habitat environment, three-quarter view, shot with a telephoto lens at eye level, shallow depth of field with softly blurred background fog and foliage, volumetric god rays filtering through mist from above, soft naturalistic backlighting that makes its ghostly eyes, glowing fur markings, and breath-mist glow from within, hyper-detailed micro-texturing on every hair and surface, subsurface scattering, physically-based rendering, muted natural color grading with deep shadows, 1:1 square composition, subject centered and fully visible from head to feet, no readable text."
 });
